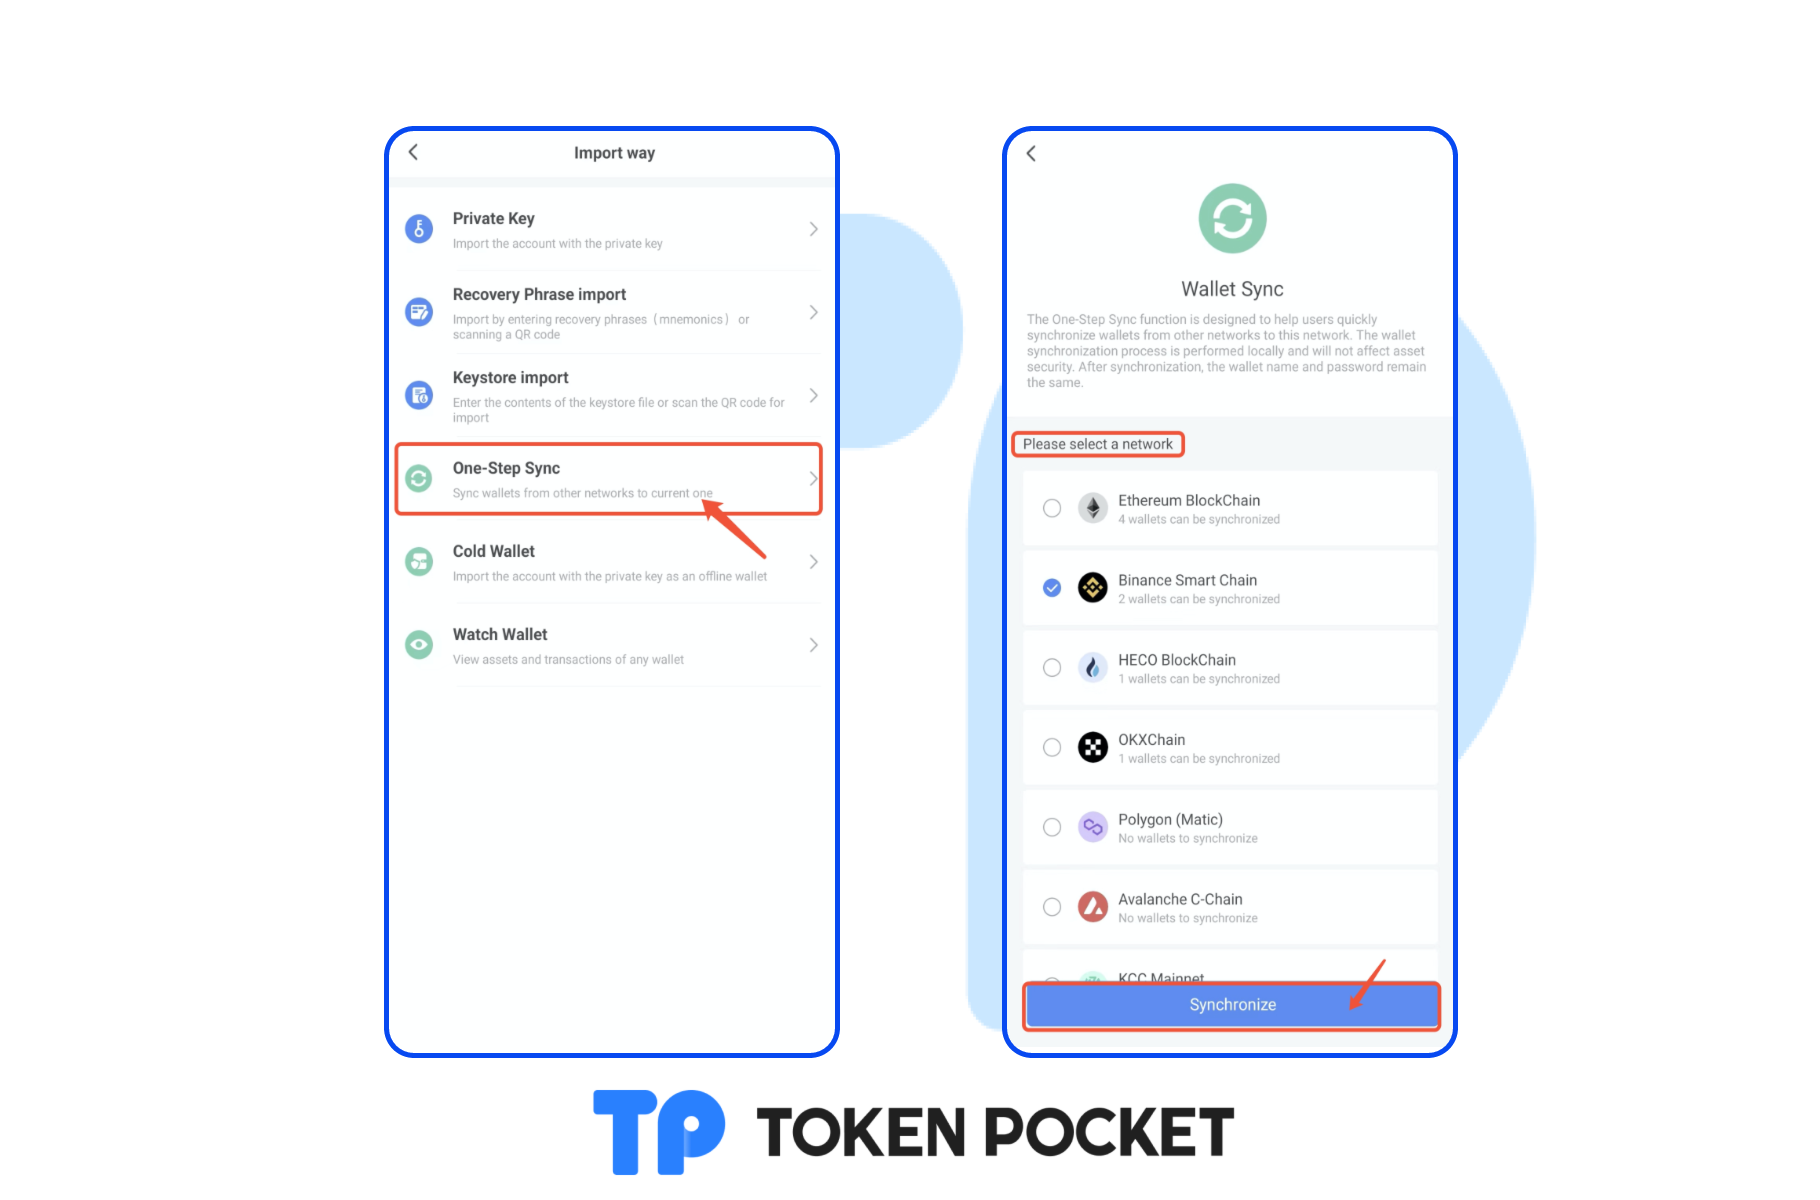
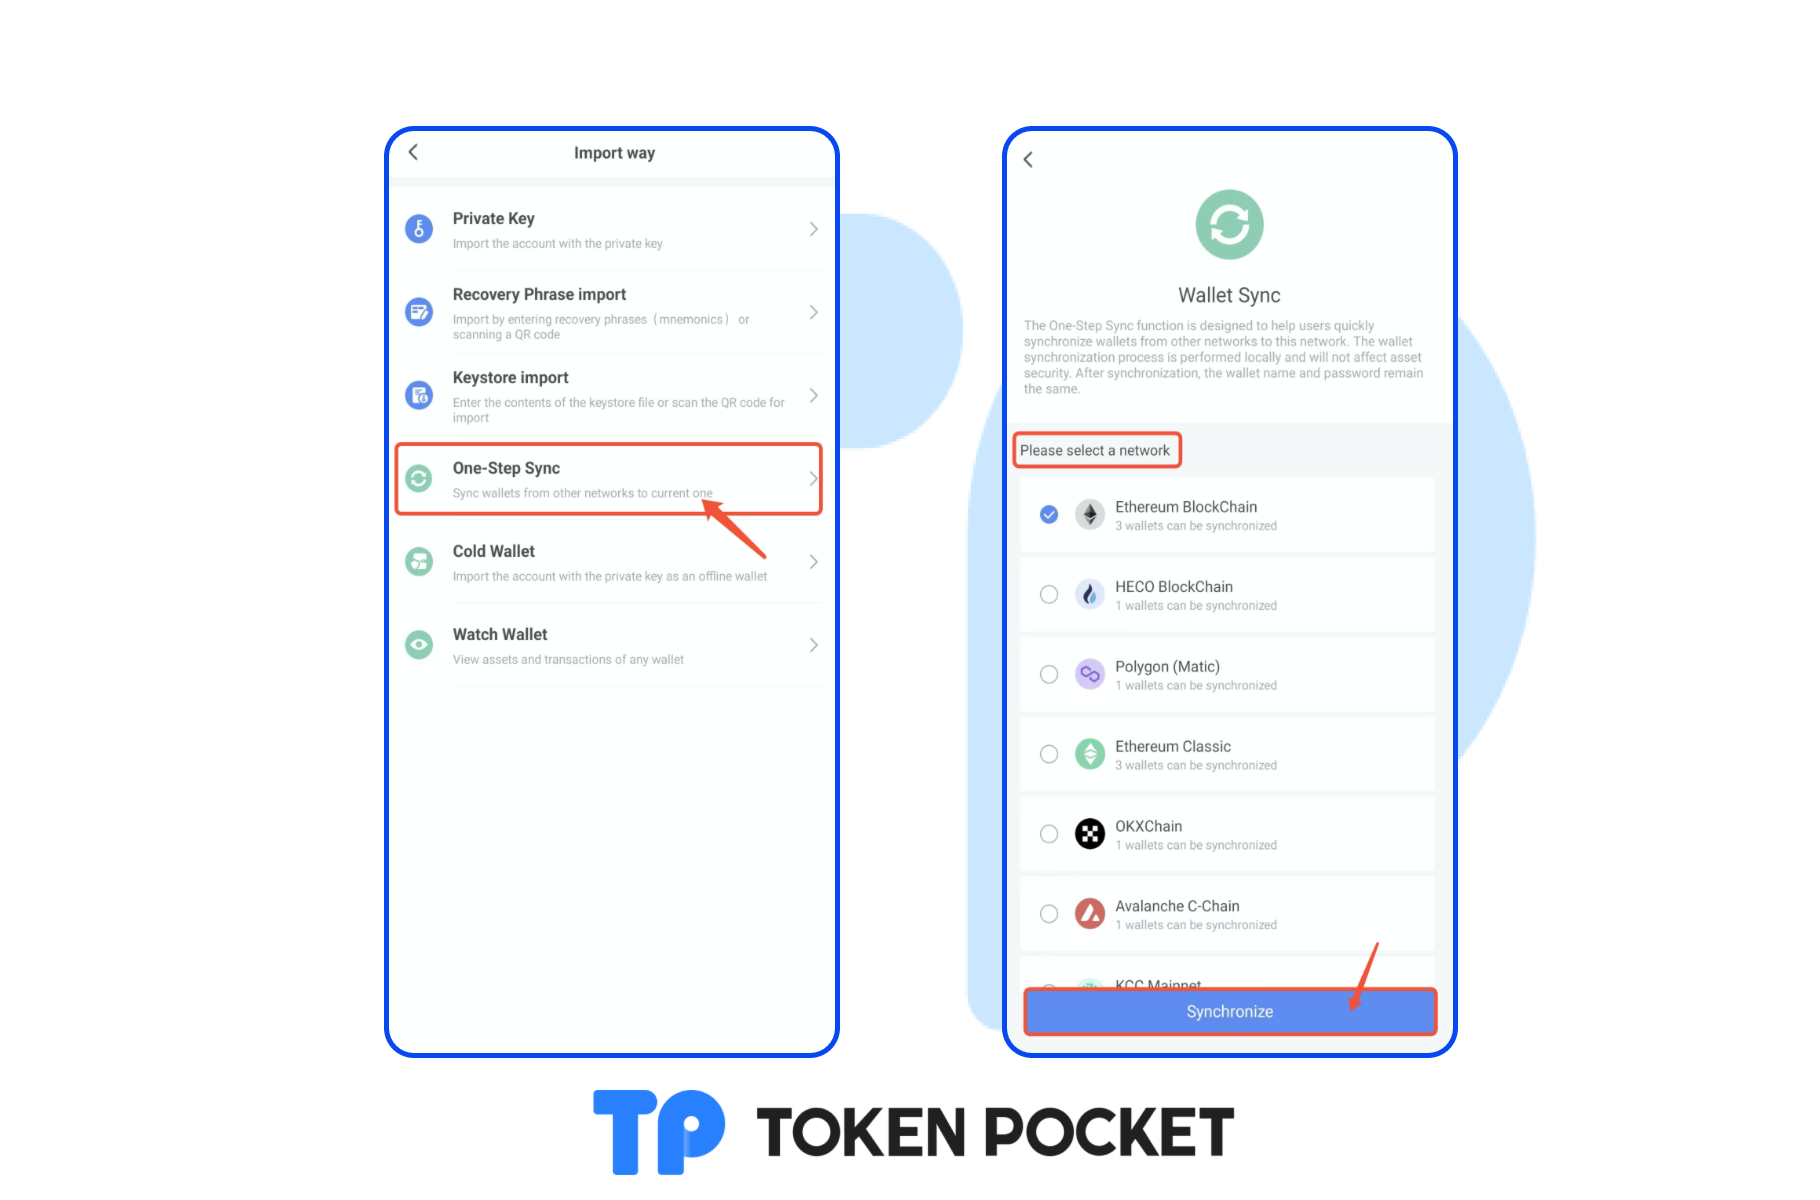
GitBook: [#771] No subject

diff --git a/wallet-operation/how-to-create-a-wallet/bsc-use-guide.md b/wallet-operation/how-to-create-a-wallet/bsc-use-guide.md
@@ -1,0 +1,53 @@
+# BSC Use Guide
+
+## **How to create a BSC wallet in TokenPocket?**
+
+1. Open TokenPocket APP, click the pattern on the upper left corner and switch the wallet network, select BSC, click <mark style="color:orange;">**\[Add Wallet]**</mark> and click <mark style="color:orange;">**\[Create Wallet]**</mark>;
+
+![](<../../.gitbook/assets/ETC CN 1.png>)
+
+2\. Click <mark style="color:orange;">**\[Create Wallet]**</mark> again and set the wallet name and password, click the User Agreement, and click <mark style="color:orange;">**\[Create Wallet]**</mark>;
+
+![](<../../.gitbook/assets/ETC CN 2 (1).png>)
+
+3\. Watch and learn the video content, click <mark style="color:orange;">**\[I got it]**</mark>, select the security tips, and click <mark style="color:orange;">**\[Next Step]**</mark>.&#x20;
+
+![](<../../.gitbook/assets/ho en3.png>)
+
+4\. Back up the secret recovery phrase on the paper or on the **** [**KeyPal**](https://www.keypal.pro/en/), and store it in a safe place. Click <mark style="color:orange;">**\[Completed backup, verify now]**</mark> and enter your secret recovery phrase, click <mark style="color:orange;">**\[Confirm]**</mark>.&#x20;
+
+![](<../../.gitbook/assets/ho en4.png>)
+
+5\. At this point, you have successfully created a BSC wallet.
+
+<mark style="color:red;">**Attention: Do not disclose the private key or secret recovery phrase to the third party!**</mark>
+
+![](<../../.gitbook/assets/ETC CN 3.png>)
+
+## **How to import a BSC wallet into TokenPocket?**
+
+1. Open TokenPocket APP, click the pattern on the upper left corner and switch the wallet network, select BSC, click <mark style="color:orange;">**\[Add Wallet]**</mark> and click <mark style="color:orange;">**\[Import Wallet]**</mark>; you can import your wallet by entering private key or secret recovery phrase.
+
+![](<../../.gitbook/assets/ETC CN 4.png>)
+
+2\. Take <mark style="color:orange;">**\[Recovery Phrase import]**</mark> as an example, enter your secret recovery phrase, wallet name,  and password, click the User Agreement, and click <mark style="color:orange;">**\[Import Wallet]**</mark>.&#x20;
+
+![](<../../.gitbook/assets/ho en7.png>)
+
+3\. At this point, you have successfully imported a BSC wallet.
+
+![](<../../.gitbook/assets/ETC CN 3.png>)
+
+## **How to sync a BSC Wallet in TokenPocket?**
+
+"Wallet Sync" is designed to help users quickly synchronize wallets on this network to other networks. When you transferred assets by the wrong network protocol (chain), this function can get your assets back.
+
+&#x20;
+
+1\. Open the TokenPocket App, click the upper left corner to switch the wallet, then select BSC, and click <mark style="color:orange;">**\[Add Wallet]**</mark>; click <mark style="color:orange;">**\[Create Wallet]**</mark>, and continue to click <mark style="color:orange;">**\[One-Step Sync]**</mark>. Choose the wallet you want to sync and then click <mark style="color:orange;">**\[Synchronize]**</mark>.
+
+![](<../../.gitbook/assets/ETC EN 9.png>)
+
+2\. At this point, the BSC wallet has been synchronized, and you can select BSC to view it on the asset page.
+
+![](<../../.gitbook/assets/ETC CN 5.png>)

diff --git a/SUMMARY.md b/SUMMARY.md
@@ -160,8 +160,9 @@
   * [Avalanche Use Guide!](defi-tutorial/how-to-trade-on-dex/avalanche-use-guide.md)
   * [Fantom Use Guide!](defi-tutorial/how-to-trade-on-dex/fantom-use-guide.md)
   * [Arbitrum Use Guide!](defi-tutorial/how-to-trade-on-dex/arbitrum-use-guide.md)
-  * [Polygon (Matic) Use Guide](defi-tutorial/how-to-trade-on-dex/polygon-matic-use-guide.md)
   * [Klaytn Use Guide](defi-tutorial/how-to-trade-on-dex/klaytn-use-guide.md)
+  * [Polygon (Matic) Use Guide](defi-tutorial/how-to-trade-on-dex/polygon-matic-use-guide.md)
+  * [BSC Use Guide](wallet-operation/how-to-create-a-wallet/bsc-use-guide.md)
 * [About Custom Network/Token](wallet-operation/custom-network-token/README.md)
   * [Moonriver-Add Custom Network Guide](wallet-operation/moonriver-add-custom-network-guide.md)
   * [How to Add Custom Network](wallet-operation/how-to-add-custom-network.md)

diff --git a/announcement/update/version-update-Aug-1.md b/announcement/update/version-update-Aug-1.md
@@ -14,7 +14,7 @@ Fix launch crashes on some mobile models
 
 **【Version update method】**
 
-1. Update from GooglePlay(Under Review)
+1. Update from GooglePlay
 
 &#x20; 2\. Update from the Wallet application&#x20;
 
